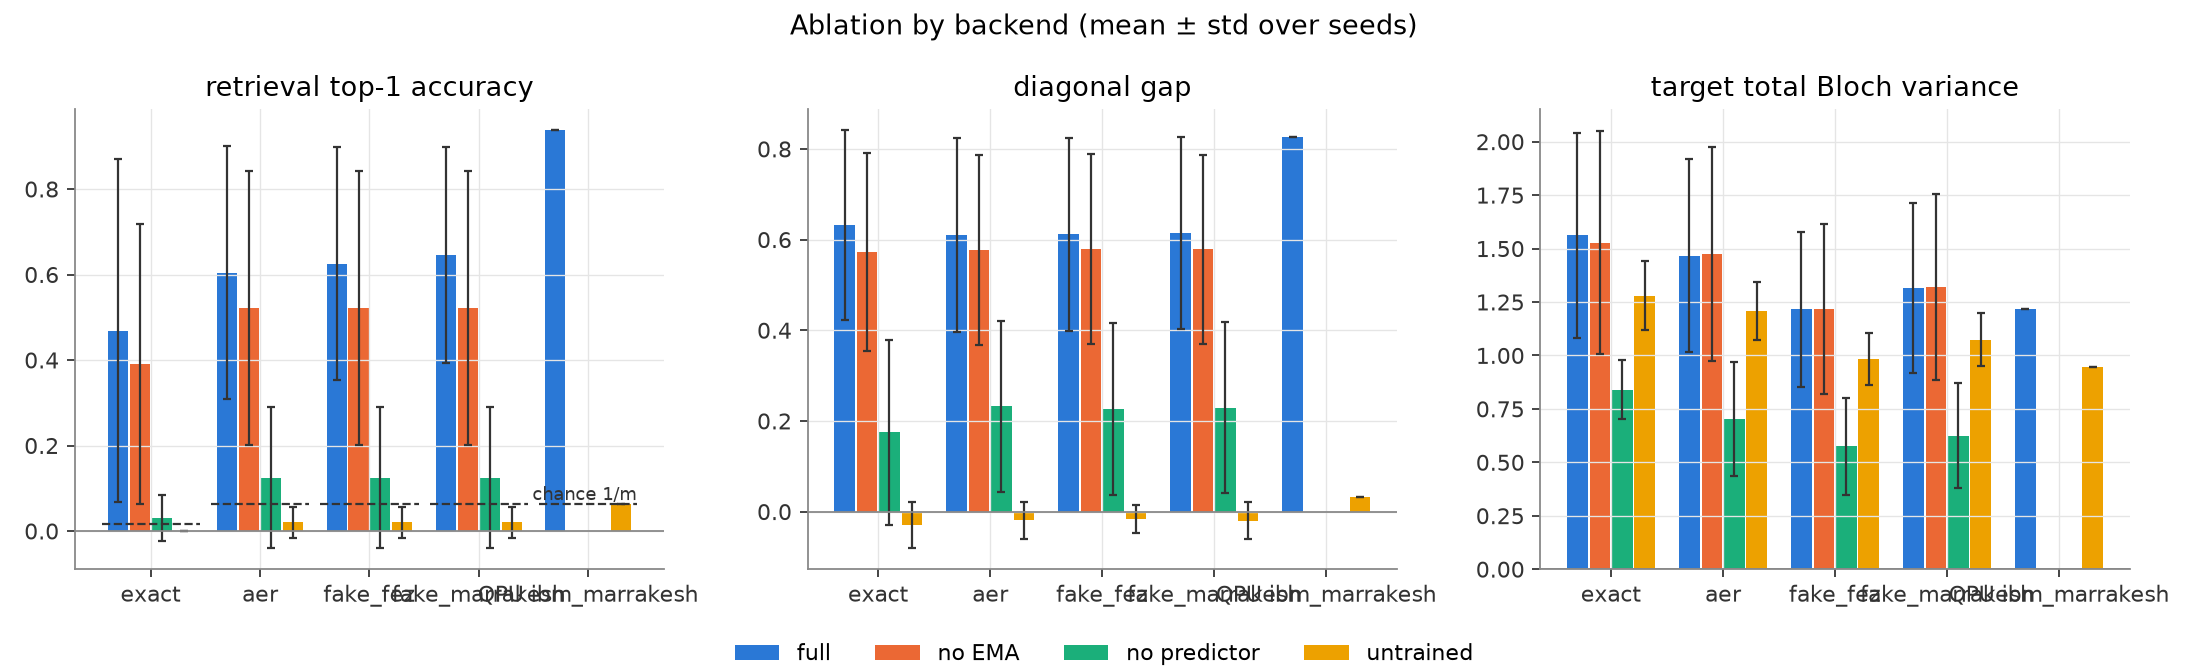
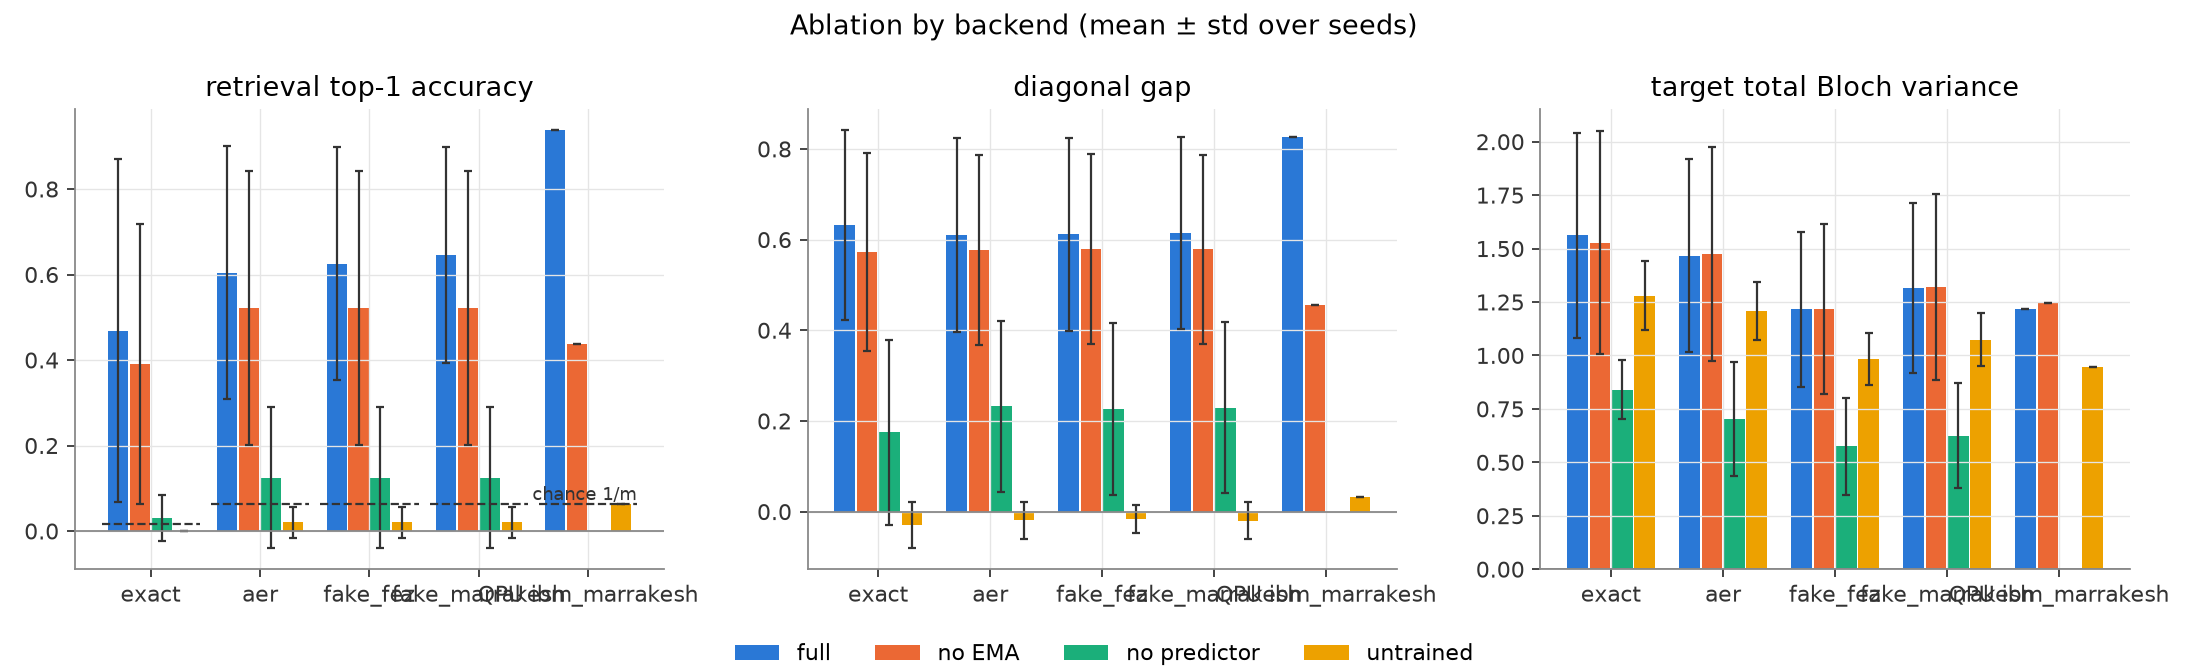
results: no-EMA model on ibm_marrakesh, merged QPU evaluation
Adds the no_ema_seed0 QPU job (118 s) and scripts/merge_qpu_eval.py, which
rebuilds results/eval/qpu.json from the saved raw counts of both submissions.
Pre-registered full vs untrained metrics are unchanged.

Changed region(s): [[0.9062, 0.4375, 0.9375, 0.8438], [0.5938, 0.4375, 0.625, 0.75], [0.25, 0.5, 0.2812, 0.7812]]

diff --git a/scripts/merge_qpu_eval.py b/scripts/merge_qpu_eval.py
@@ -1,0 +1,49 @@
+"""Rebuild results/eval/qpu.json from the saved raw QPU counts of several submissions.
+
+The QPU data were collected in two submissions on ibm_marrakesh: the
+pre-registered pair (full_seed0, untrained_seed0) and a later no_ema_seed0 job.
+`circuitjepa hw-fetch` evaluates one submission at a time, so this script merges
+them from results/hardware/counts_<tag>.json. Each run's parameters are checked
+against the hash stored at submission time.
+
+Usage: python scripts/merge_qpu_eval.py
+"""
+
+import json
+
+from circuitjepa import experiments as ex
+
+TAGS = ["full_seed0", "untrained_seed0", "no_ema_seed0"]
+
+
+def main() -> None:
+    hw = ex.results_dir() / "hardware"
+    raw = {t: json.loads((hw / f"counts_{t}.json").read_text()) for t in TAGS}
+    runs = ex.load_runs(TAGS)
+    for t in TAGS:
+        if ex.params_hash(runs[t]) != raw[t]["params_hash"]:
+            raise SystemExit(f"{t}: params_hash mismatch with the submitted job")
+    counts = {
+        t: [c["counts"] for c in sorted(raw[t]["circuits"], key=lambda c: c["index"])]
+        for t in TAGS
+    }
+    data = ex.evaluate_from_counts(runs, counts, "qpu", {"job_ids": {t: raw[t]["job_id"] for t in TAGS}})
+    data.update(
+        backend_name=raw[TAGS[0]]["backend"],
+        shots=raw[TAGS[0]]["shots"],
+        m=raw[TAGS[0]]["m"],
+        submission_id={t: raw[t]["submission_id"] for t in TAGS},
+        job_ids={t: raw[t]["job_id"] for t in TAGS},
+        params_hash={t: raw[t]["params_hash"] for t in TAGS},
+        submitted_at={t: raw[t]["submitted_at"] for t in TAGS},
+        note=(
+            "Merged from two submissions on ibm_marrakesh: the pre-registered pair "
+            "(full_seed0, untrained_seed0) and a later no_ema_seed0 job; rebuilt from "
+            "results/hardware/counts_*.json by scripts/merge_qpu_eval.py."
+        ),
+    )
+    print(f"wrote {ex.save_eval('qpu', data)}")
+
+
+if __name__ == "__main__":
+    main()

diff --git a/results/SUMMARY.md b/results/SUMMARY.md
@@ -146,6 +146,7 @@ Pre-registered tests (full vs untrained; gap: paired sign-flip, p < 0.01; top-1:
 | variant | top-1 | diag gap | total var | mean ‖r‖ | collapsed | probe pred | probe unadv | ‖P−I‖ |
 |---|---|---|---|---|---|---|---|---|
 | full | 0.938 ± 0.000 | 0.827 ± 0.000 | 1.218 ± 0.000 | 1.241 ± 0.000 | 0/1 | 0.0316 ± 0.0000 | 0.0753 ± 0.0000 | 0.273 ± 0.000 |
+| no_ema | 0.438 ± 0.000 | 0.455 ± 0.000 | 1.246 ± 0.000 | 1.160 ± 0.000 | 0/1 | 0.0411 ± 0.0000 | 0.0409 ± 0.0000 | 0.611 ± 0.000 |
 | untrained | 0.062 ± 0.000 | 0.033 ± 0.000 | 0.947 ± 0.000 | 1.076 ± 0.000 | 0/1 | 0.0626 ± 0.0000 | 0.0860 ± 0.0000 | 0.783 ± 0.000 |
 
 Per time step s:
@@ -155,6 +156,9 @@ Per time step s:
 | full | 1 | 1.000 ± 0.000 | 0.0139 ± 0.0000 | 0.0244 ± 0.0000 |
 | full | 2 | 1.000 ± 0.000 | 0.0108 ± 0.0000 | 0.0728 ± 0.0000 |
 | full | 3 | 0.833 ± 0.000 | 0.0637 ± 0.0000 | 0.1197 ± 0.0000 |
+| no_ema | 1 | 0.200 ± 0.000 | 0.0289 ± 0.0000 | 0.0186 ± 0.0000 |
+| no_ema | 2 | 0.400 ± 0.000 | 0.0303 ± 0.0000 | 0.0340 ± 0.0000 |
+| no_ema | 3 | 0.667 ± 0.000 | 0.0602 ± 0.0000 | 0.0651 ± 0.0000 |
 | untrained | 1 | 0.000 ± 0.000 | 0.0337 ± 0.0000 | 0.0442 ± 0.0000 |
 | untrained | 2 | 0.000 ± 0.000 | 0.0378 ± 0.0000 | 0.0850 ± 0.0000 |
 | untrained | 3 | 0.167 ± 0.000 | 0.1073 ± 0.0000 | 0.1215 ± 0.0000 |
